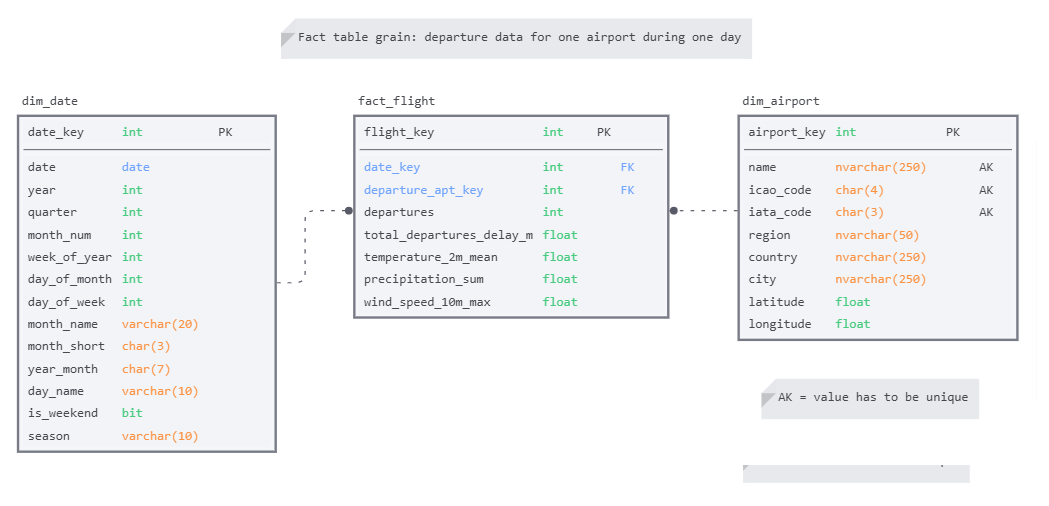
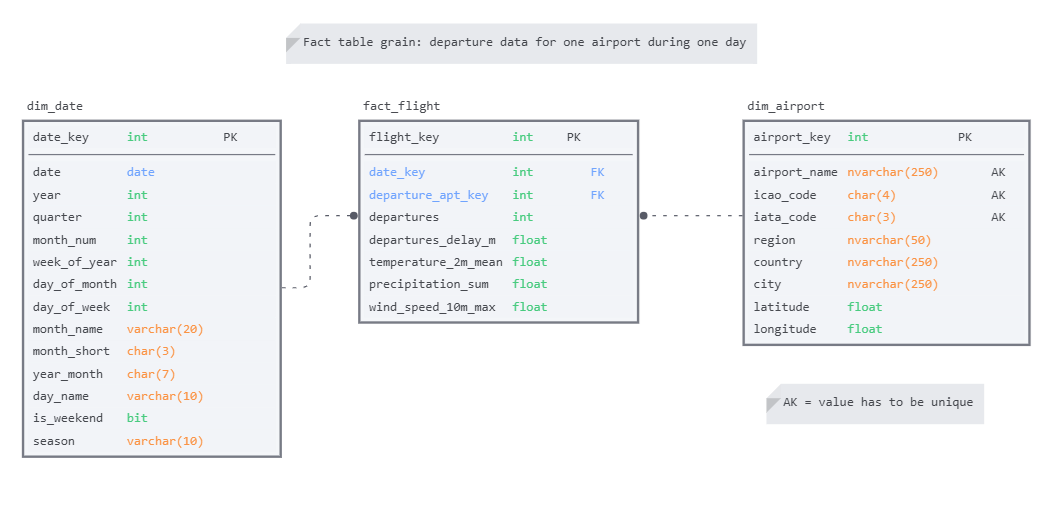
updated diagram and removed some needless notes in data dictionary

diff --git a/documentation/data_dictionary.md b/documentation/data_dictionary.md
@@ -72,8 +72,8 @@ Applies to `data/bronze/airport_locations_raw.csv`.
 | `Timezone` | string/float | Timezone offset | Cleaned to `timezone_clean` in Silver |
 | `DST` | string | Daylight saving time flag | Cleaned to `dst_clean` in Silver |
 | `Tz database timezone` | string | Timezone database name | Cleaned to `tz_database_timezone_clean` in Silver |
-| `Type` | string | OpenFlights location type | Not kept in final Silver geography output |
-| `Source` | string | OpenFlights source label | Not kept as a business field |
+| `Type` | string | OpenFlights location type | Source field |
+| `Source` | string | OpenFlights source label | Source field |
 | `run_id` | string | Ingestion run identifier | Technical metadata |
 | `load_timestamp` | string/timestamp | Ingestion timestamp | Technical metadata |
 | `source` | string | Source URL | Technical metadata |
@@ -185,9 +185,6 @@ Applies to `silver_tables_joined.parquet`, `valid_rows.csv`, and `review_rows.cs
 
 Profiling notes:
 
-- `silver_tables_joined.parquet` has 448,423 rows.
-- `valid_rows.csv` has 159,516 rows.
-- `review_rows.csv` has 288,907 rows.
 - The validation script counted 0 duplicate `date + icao` combinations.
 - Most review rows are caused by missing `departures_data_submitted` and `delay_minutes`.
 
@@ -249,9 +246,6 @@ Profiling notes:
 
 ## 6. Data Quality Notes
 
-- Bronze keeps source-level values and adds ingestion metadata.
-- Silver performs the main cleaning, typing, joining, and validation.
 - Rows with failed Silver validation are preserved in `review_rows.csv` rather than being deleted.
 - Gold tables are loaded only from `valid_rows.csv`.
-- Column names with `depatures` in `stg_airport_flights.parquet` are staging typos retained by the current script and corrected during `validation_joins.py`.
 - Gold `fact_flights.departures` is populated from Silver `departures_data_submitted`, not Silver `departures`.